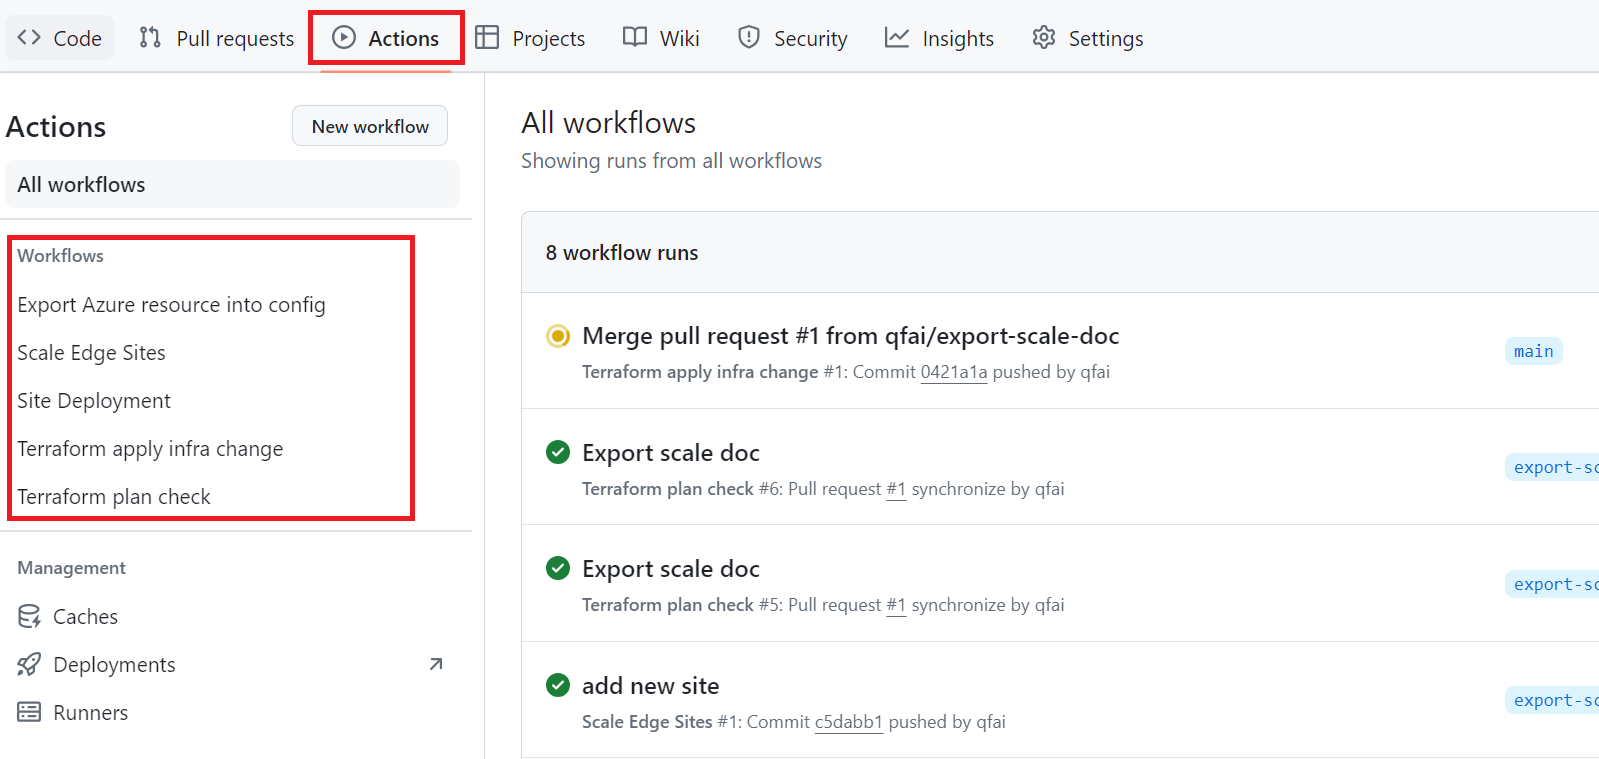
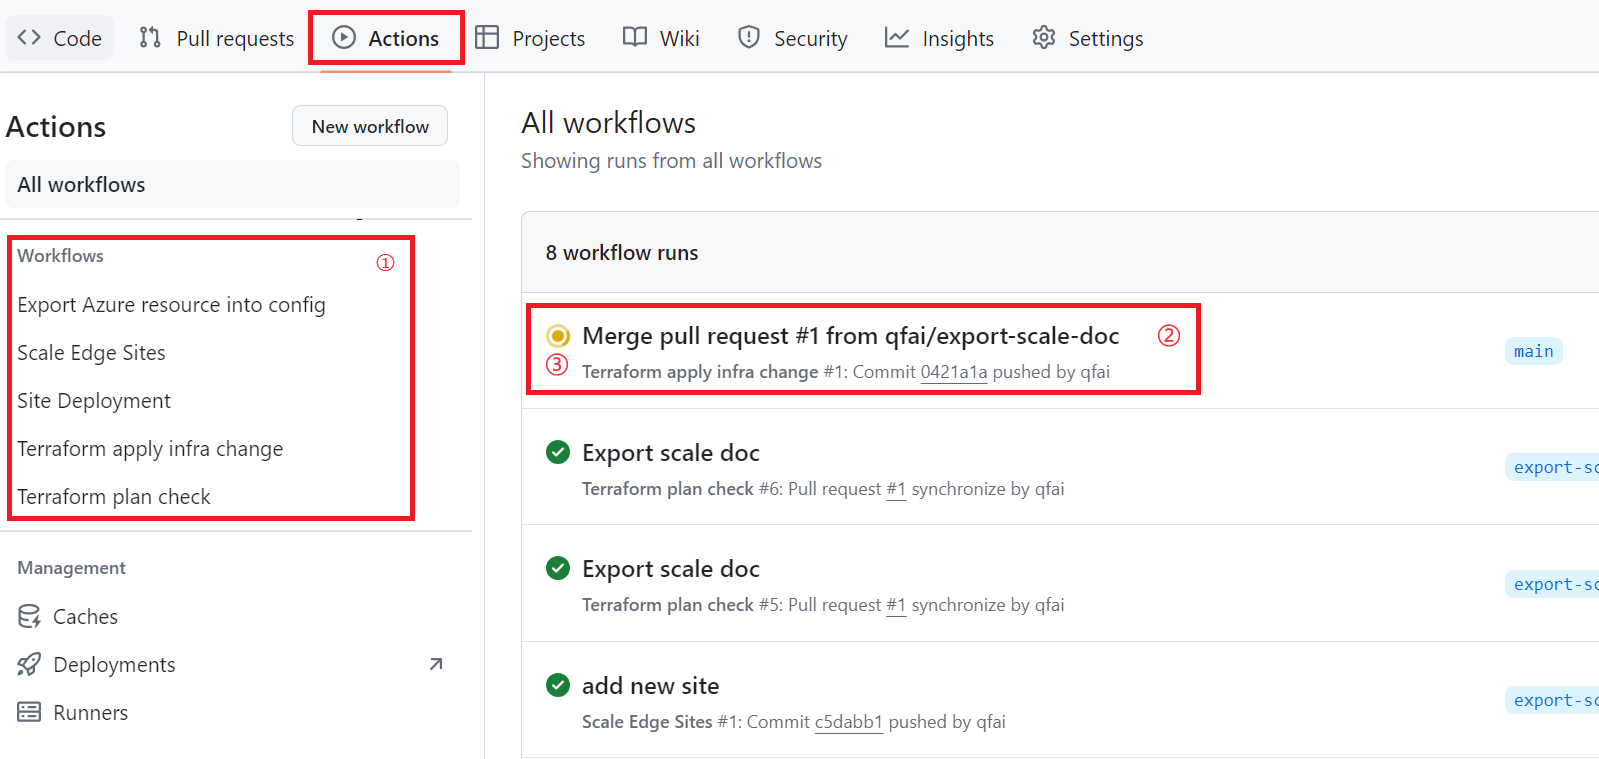
add more contents

Changed region(s): [[0.3064, 0.3939, 0.7661, 0.5455]]

diff --git a/doc/View-pipeline.md b/doc/View-pipeline.md
@@ -1,13 +1,18 @@
 You can view workflow status through actions page
 <img src="./img/view_action.png" alt="viewaction" width="800"/>
-the left panel show all workflows, you can click to filter by workflows.
 
+the left panel ① show all workflows, you can click to filter by workflows. The panel ② shows which commit the workflow run on and the ③ shows workflow running status
 
-- Export Azure resource into config workflow is used in export functionality
+You can click the ② to get detailed information about its steps and step logs.
+
+<img src="./img/scale_workflow_detail.png" alt="scale workflow detail" width="800"/>
+
+Following is the detailed introduction of each workflow
+
+- Export Azure resource into config: is used in export functionality
 - Scale Edge Sites is used in scale
-- Site Deployment workflow is a sub workflow, it referenced by terraform apply infra change workflow. The workflow is mainly run terraform related commands like terraform plan, terraform apply.
-- Terraform apply infra change workflow is the main CI/CD workflow that deploy your infra change in a stage manner, it will be triggered when every push is made against main branch.
-- Terraform plan check workflow is helper workflow that will be triggered every time you made a pull request to main branch, it will generate a terraform plan report based on your pull request change, a example is showed in following picture.
+- Site Deployment: is a sub workflow, it referenced by terraform apply infra change workflow. The workflow is mainly run terraform related commands like terraform plan, terraform apply.
+- Terraform apply infra change: is the main CI/CD workflow that deploy your infra change in a stage manner, it will be triggered when every push is made against main branch.
+- Terraform plan check: is helper workflow that will be triggered every time you made a pull request to main branch, it will generate a terraform plan report based on your pull request change, a example is showed in following picture.
 
 <img src="./img/terraform_plan_result.png" alt="terraform plan result" width="800"/>
-
